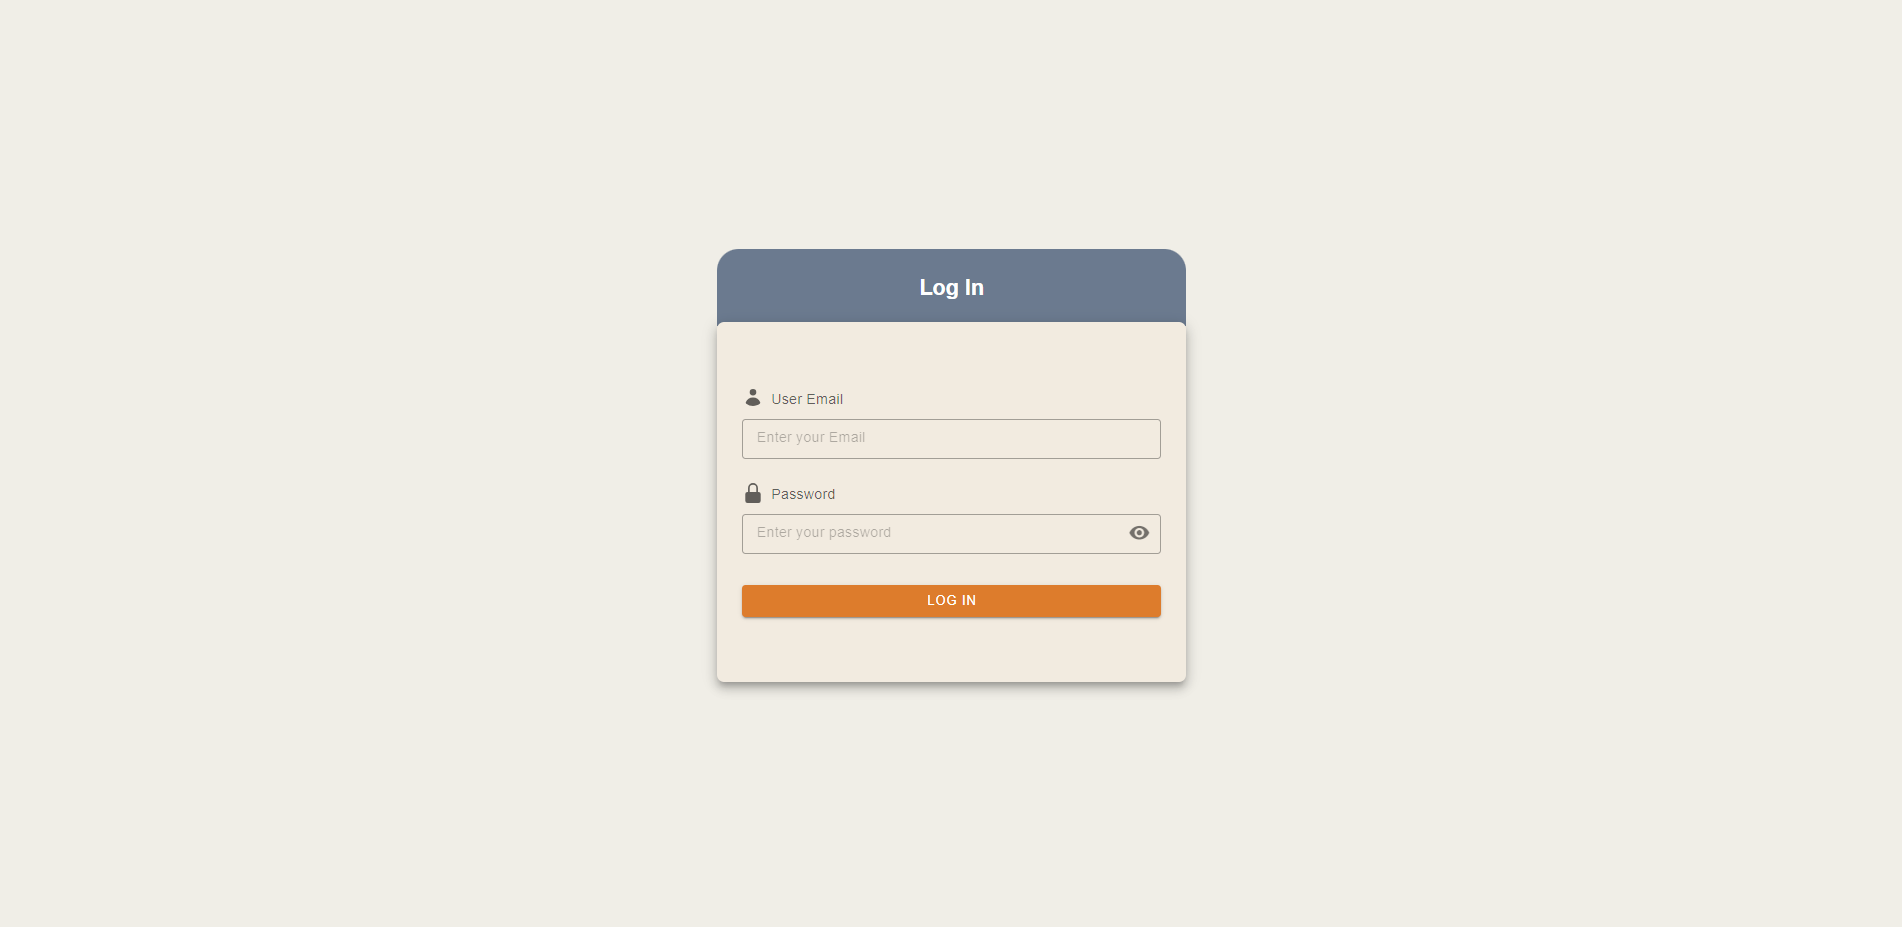
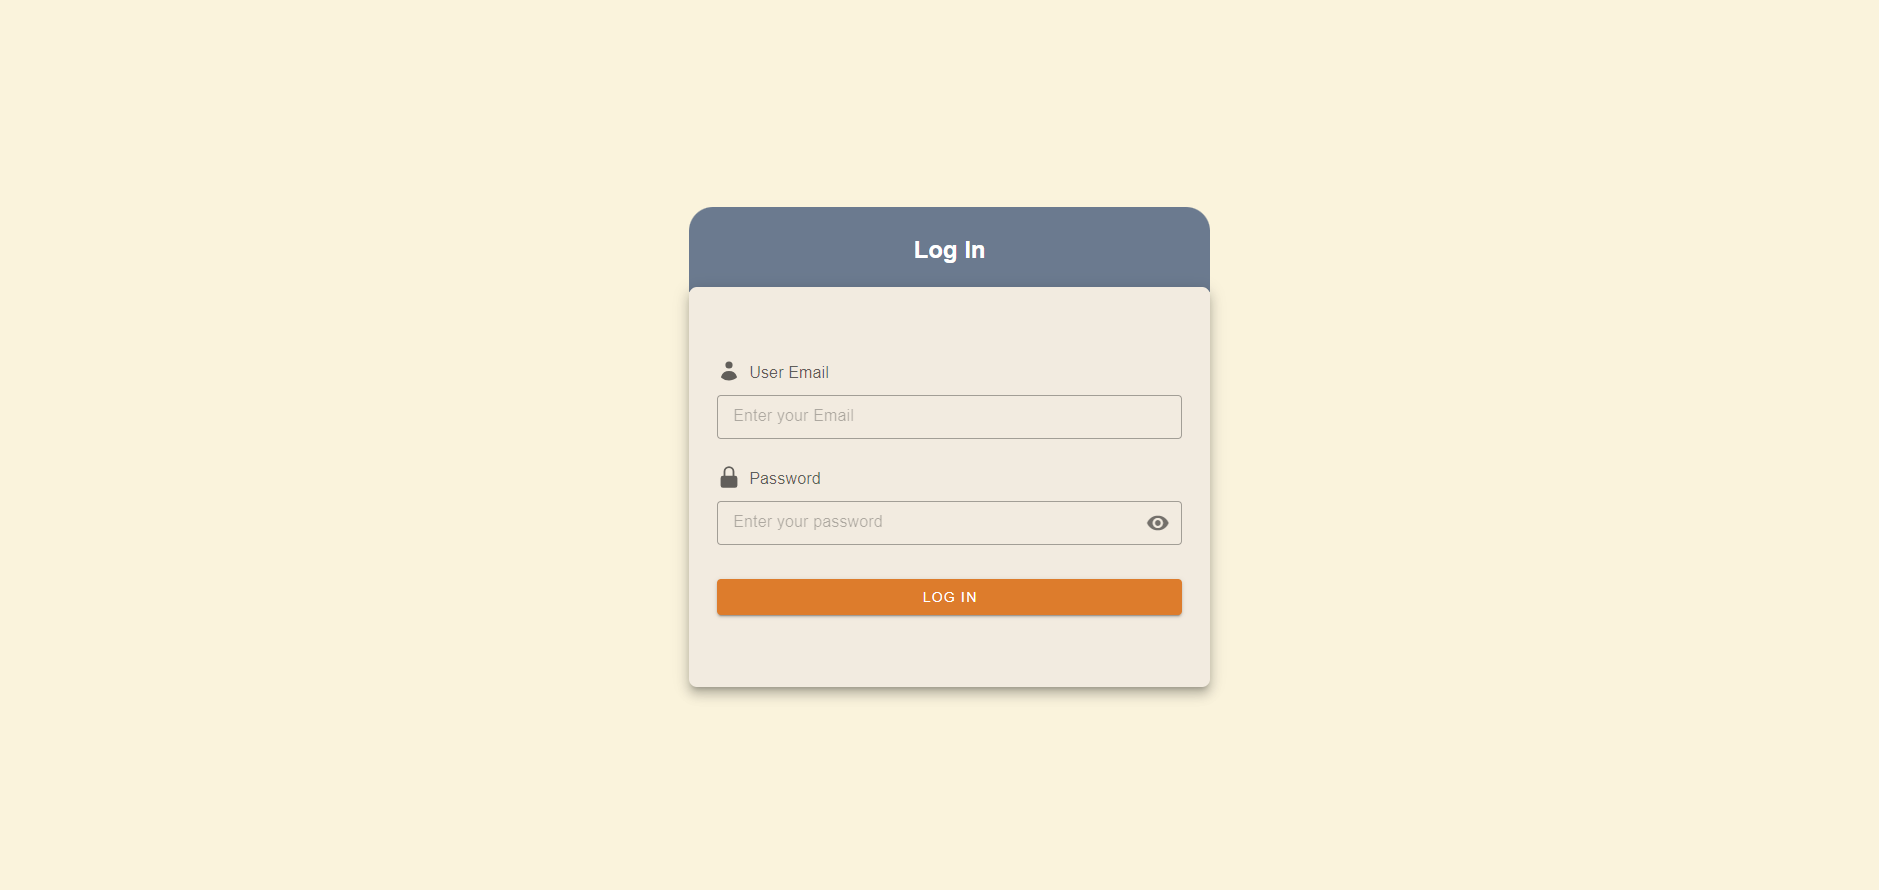
image updated

Changed region(s): [[0.3395, 0.2124, 0.6482, 0.7888]]

diff --git a/src/Views/LogIn.vue b/src/Views/LogIn.vue
@@ -152,7 +152,7 @@ export default {
   display: flex;
   justify-content: center;
   align-items: center;
-  background-color: #f0eee7;
+  background-color: #faf3dc;
 }
 .form-container {
   width: clamp(520.5px, -11.875rem + 17.333332999999996vw, 200px);
